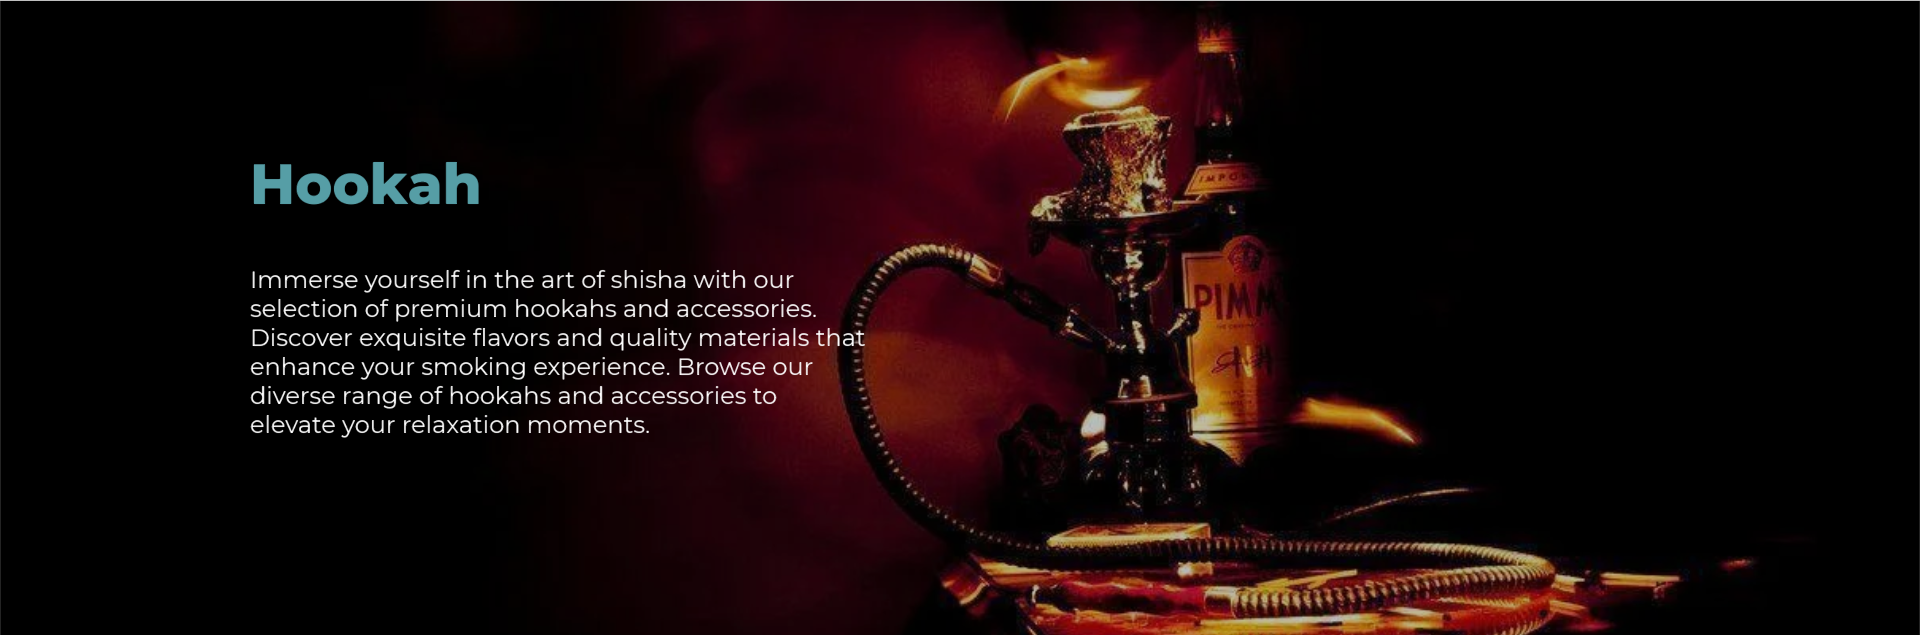
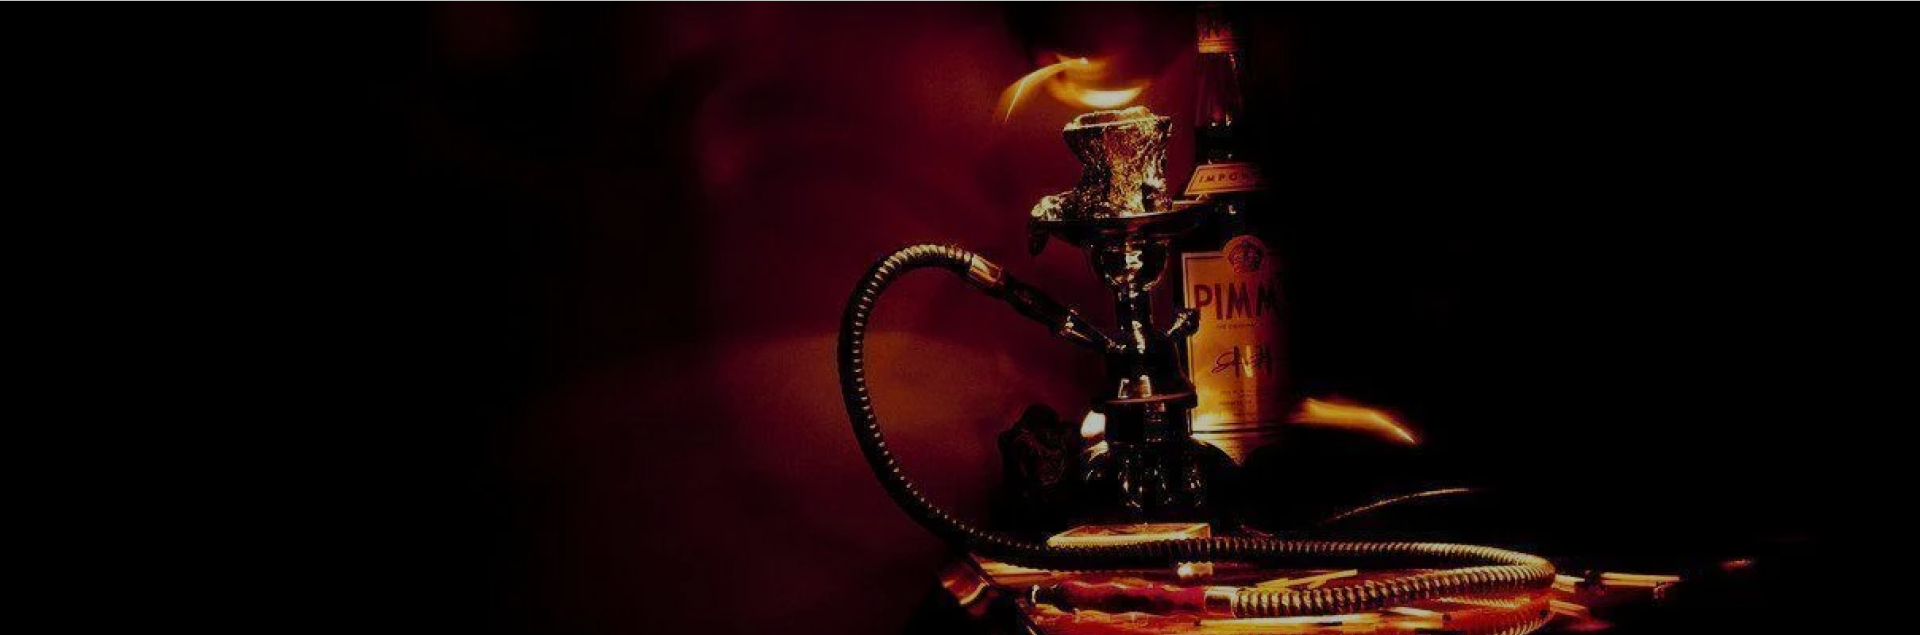
fixing back

Changed region(s): [[0.125, 0.4189, 0.4375, 0.6882], [0.125, 0.2394, 0.25, 0.3291]]

diff --git a/KurilkaGo/main/templates/products-page.html b/KurilkaGo/main/templates/products-page.html
@@ -43,21 +43,48 @@
 <!-- header -->
 <header class="header" style="background:
 {% if title == 'Cigarettes' %} url({%static 'img/header-img-cig.png' %}) {% endif%}
-{% if title == 'E-Cig' %} url({%static 'img/header-img-esig.png' %}) {% endif%}
+{% if title == 'E-Cig' %} url({%static 'img/header-ecig.png' %}) {% endif%}
 {% if title == 'Hookah' %} url({%static 'img/header-img-hookah.png' %}) {% endif%}
-{% if title == 'Iqos' %} url({%static 'img/header-img-iqos.png' %}) {% endif%}
-{% if title == 'Liquid' %} url({%static 'img/header-img-cig.png' %}) {% endif%}
-{% if title == 'Pod System' %} url({%static 'img/header-img-podsys.png' %}) {% endif%}
+{% if title == 'Heating' %} url({%static 'img/header-iqos.png' %}) {% endif%}
+{% if title == 'Liquid' %} url({%static 'img/header-img-liquids.png' %}) {% endif%}
+{% if title == 'Pod System' %} url({%static 'img/pod.png' %}) {% endif%}
 
 no-repeat">
     <div class="container">
         <div class="header__inner">
             <h1 class="header__heading">{{ title }}</h1>
+            {% if title == 'Cigarettes' %}
             <p class="header__text">
                 Discover a wide array of top-quality cigarettes in our online store. From classic favorites to exclusive
                 blends, find the perfect smoke to suit your taste. Explore our diverse selection
                 and elevate your smoking experience today!
             </p>
+            {% endif%}
+            {% if title == 'E-Cig' %}
+            <p class="header__text">
+Explore our range of cutting-edge e-cigarettes for a modern vaping experience. Discover sleek designs, advanced technology, and a variety of flavors. Find the perfect e-cig to suit your style and enjoy a smoke-free alternative with ease.
+            </p>
+            {% endif%}
+            {% if title == 'Hookah' %}
+            <p class="header__text">
+Immerse yourself in the art of shisha with our selection of premium hookahs and accessories. Discover exquisite flavors and quality materials that enhance your smoking experience. Browse our diverse range of hookahs and accessories to elevate your relaxation moments.
+            </p>
+            {% endif%}
+            {% if title == 'Liquid' %}
+            <p class="header__text">
+                Discover a wide array of top-quality nicotine liquids in our online store. From classic flavors to exclusive blends, find the perfect vape to suit your taste. Explore our diverse selection and elevate your vaping experience today!
+            </p>
+            {% endif%}
+            {% if title == 'Pod System' %}
+            <p class="header__text">
+Discover the future of vaping with our selection of sleek and portable pod systems. Explore compact devices that deliver exceptional flavor and convenience. Find the perfect pod system for your vaping needs and enjoy a satisfying experience wherever you go.
+            </p>
+            {% endif%}
+            {% if title == 'Heating' %}
+            <p class="header__text">
+<!--Explore IQOS, the innovative heated tobacco system that offers a smoke-free alternative to traditional cigarettes. Discover a range of stylish devices and accessories designed to provide a seamless and satisfying tobacco experience. Upgrade your lifestyle with IQOS today.-->
+            </p>
+            {% endif%}
         </div>
     </div>
 </header>

diff --git a/KurilkaGo/main/templates/homepage.html b/KurilkaGo/main/templates/homepage.html
@@ -134,7 +134,7 @@
                     <div class="category__block category__block6" style="background: url({%static 'img/IQOS.png'%});">
                         <div class="category__text-blur">
                             <div class="category__blur"></div>
-                            <p class="category__text">IQOS</p>
+                            <p class="category__text">Heating</p>
                         </div>
                     </div>
                 </a>

diff --git a/KurilkaGo/main/views.py b/KurilkaGo/main/views.py
@@ -11,11 +11,6 @@ page_size = 12
 def index(request):
     return render(request, 'homepage.html')
 
-
-def about(request):
-    return render(request, 'about.html')
-
-
 def getCigarettes(request, page):
     cigarettes_page = Cigarette.objects.all()[(page - 1) * page_size: page * page_size]
 
@@ -117,7 +112,7 @@ def getIqoses(request, page):
     prev_page = 1 if page == 1 else page - 1
     next_page = 3 if page == 3 else page + 1
     return render(request, 'products-page.html', {
-        'title': 'Iqos',
+        'title': 'Heating',
         'products_url': '/iqoses/',
         'products_page': page,
         'product_url': '/iqos/',

diff --git a/KurilkaGo/main/urls.py b/KurilkaGo/main/urls.py
@@ -14,6 +14,5 @@ urlpatterns = [
     path('liquids/<int:page>', views.getLiquids),
     path('liquid/<int:id>', views.getLiquid),
     path('vapes/<int:page>', views.getVapes),
-    path('vape/<int:id>', views.getVape),
-    path('about', views.about)
+    path('vape/<int:id>', views.getVape)
 ]
